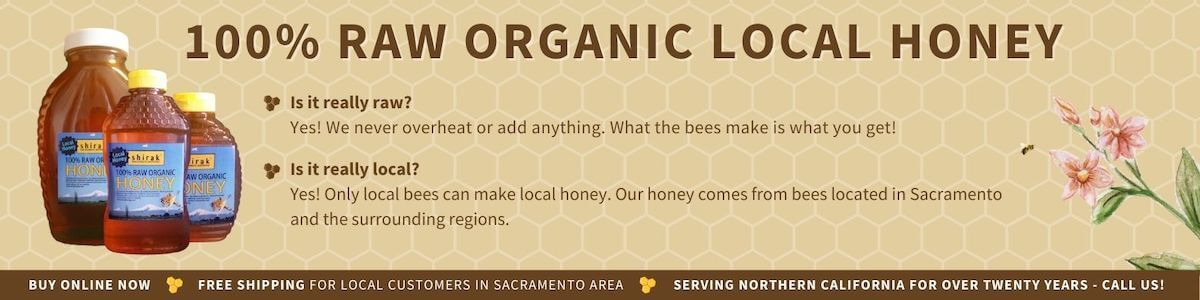
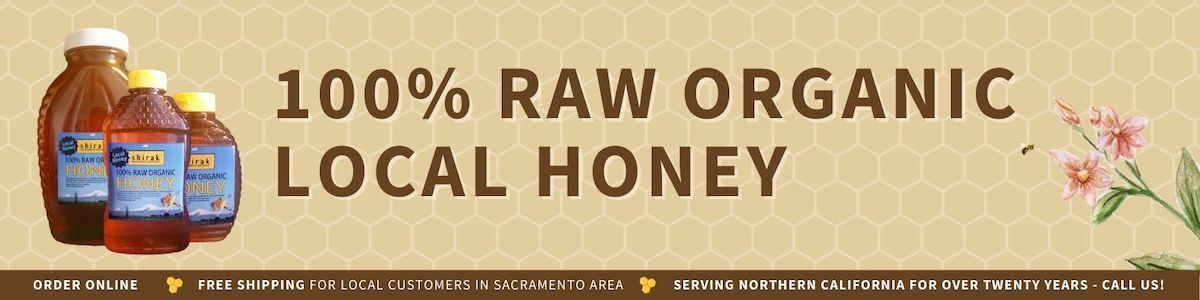
Update copy and images

diff --git a/src/app/primary-navbar/primary-navbar.component.html b/src/app/primary-navbar/primary-navbar.component.html
@@ -14,10 +14,10 @@
     <div class="nav-items nav-items-left collapse navbar-collapse" [ngbCollapse]="isCollapsed">
       <ul class="navbar-nav mr-auto" (click)="toggleMenuIfMobile()">
         <li class="nav-item" routerLinkActive="active">
-          <a class="nav-link" routerLink="/shop-local-sacramento-honey">SHOP</a>
+          <a class="nav-link" routerLink="/shop-local-sacramento-honey">ORDER ONLINE</a>
         </li>
         <li class="nav-item" routerLinkActive="active">
-          <a class="nav-link" routerLink="/sacramento-locations">WHERE TO BUY</a>
+          <a class="nav-link" routerLink="/sacramento-locations">BUY IN STORE</a>
         </li>
       </ul>
     </div>

diff --git a/src/app/locations-page/locations-page.component.html b/src/app/locations-page/locations-page.component.html
@@ -43,7 +43,8 @@
 	</div>
 	<div class="row">
 		<div class="section inner-width">
-			<h3 class="section-label w-100">Can't wait for delivery? Find Shirak Honey products at these locations.</h3>
+			<h3 class="section-label w-100">Buy In Store</h3>
+			<div class="subtitle">You can find Shirak Honey products at these partner locations.</div>
 			<div class="col-12 col-sm-6 col-md-3 location-item" *ngFor="let location of locations;">
 				<div class="location-image">
 					<img src={{location.image}}>

diff --git a/src/app/locations-page/locations-page.component.css b/src/app/locations-page/locations-page.component.css
@@ -56,3 +56,13 @@
 .locations-hero img {
 	width: 100%;
 }
+
+.subtitle {
+	width: 100%;
+	text-align: center;
+	margin-top: 0;
+}
+
+.section-label {
+	margin-bottom: 0;
+}
